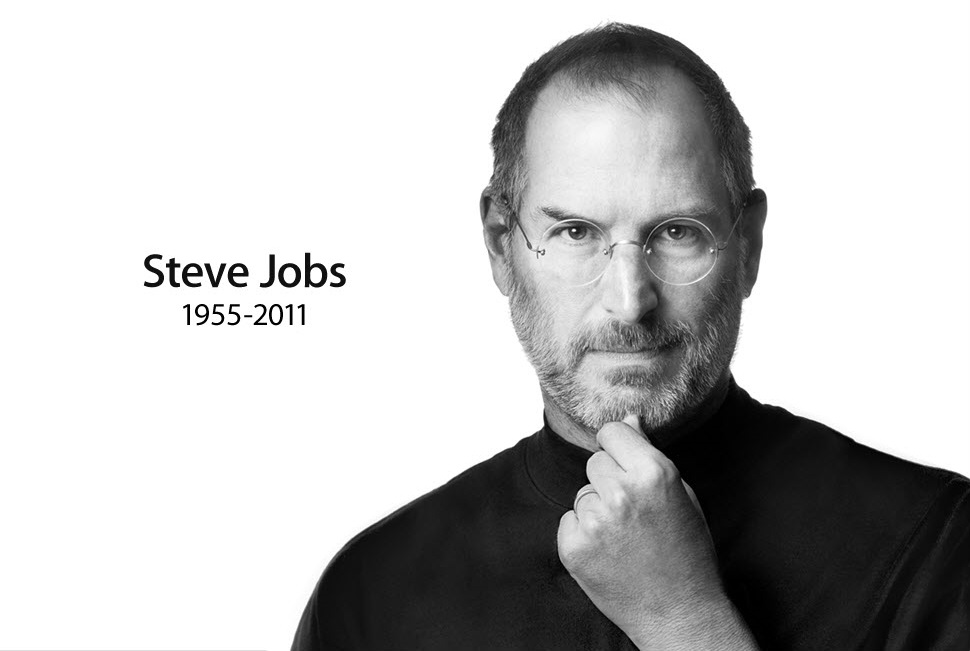
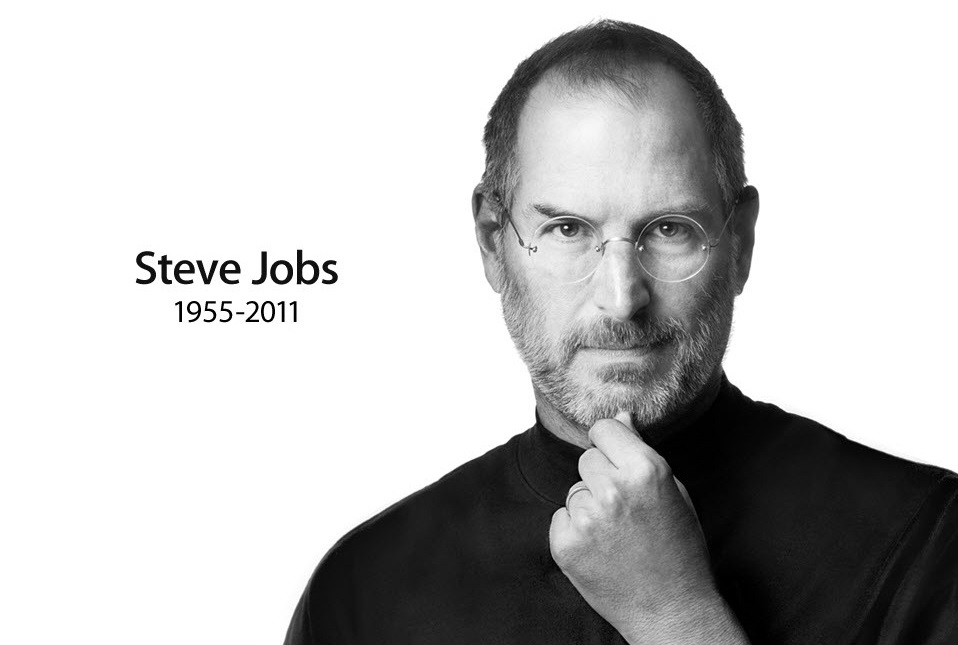
pull

diff --git a/Challenge 2/index.html b/Challenge 2/index.html
@@ -9,16 +9,14 @@
 
 	<body>
 		<head></head>
-		<nav></nav>
+		<nav>list</nav>
 		<main>
-			<div>
-			
+			<div class="picture"><center>
 				<figure>
 					<img src="jobs.jpg" alt="Picture of Steven Jobs">
-					<figcaption>Steve Paul Jobs - CEO manager and co-founder of Apple</figcaption>
+					<figcaption>Steve Paul Jobs - CEO manager and co-founder of Apple Inc.</figcaption>
 				</figure>			
-			
-				<img src="jobs.jpg">
+				</center>
 			</div>
 		</main>
 		<footer></footer>

diff --git a/Challenge 2/style.css b/Challenge 2/style.css
@@ -1,1 +1,18 @@
 /*Style*/
+
+/* */
+* { border: 1px dashed red; }
+
+
+
+* {
+	box-sizing: border-box;
+	margin: 0;
+}
+
+
+img {
+	float: rigth;
+	width: 80%;
+	border: 2px solid gray;
+}
